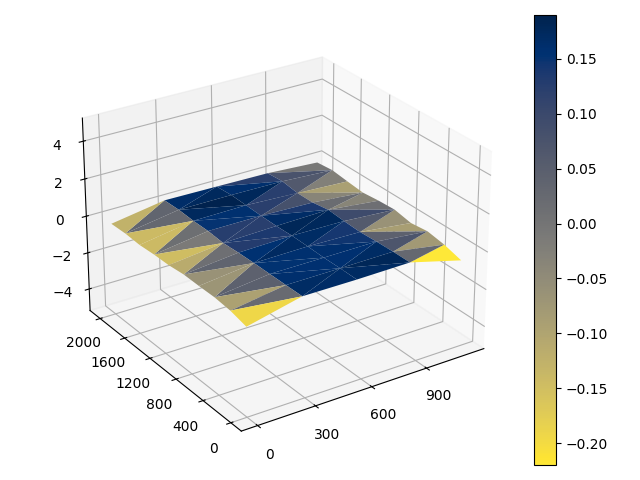
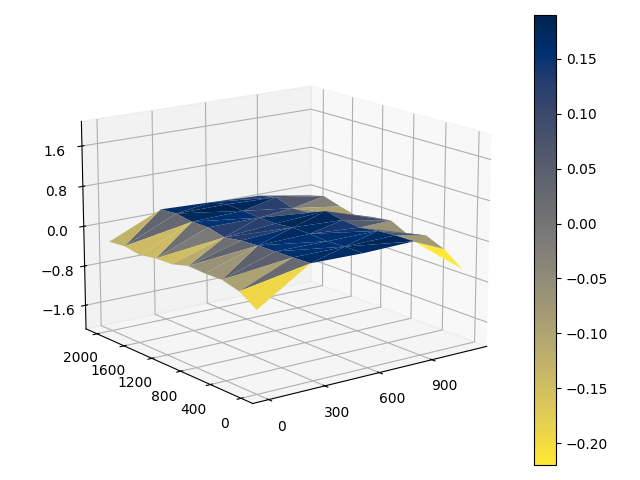
changed graph scaling

diff --git a/xy_z_combine_to_graph.py b/xy_z_combine_to_graph.py
@@ -71,7 +71,7 @@ surf = ax.plot_trisurf(Xs, Ys, Zs, cmap=cm.cividis_r, linewidth=0)
 fig.colorbar(surf)
 
 
-ax.set_zlim(-5, 5)  # Set Z axis limits
+ax.set_zlim(-1, 1)  # Set Z axis limits
 
 ax.xaxis.set_major_locator(MaxNLocator(5))
 ax.yaxis.set_major_locator(MaxNLocator(6))
